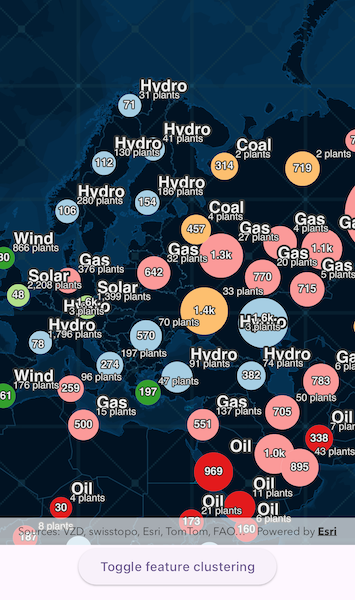
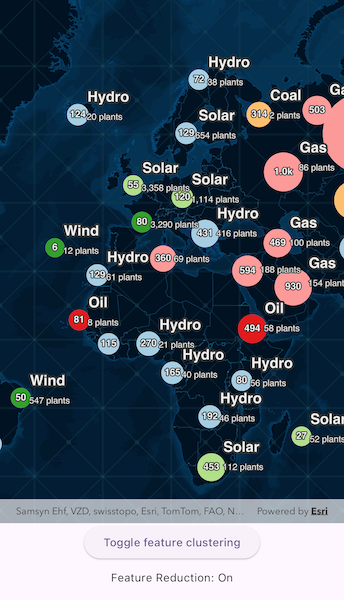
Update: adds AggregateGeoElement to Display Clusters sample (#156)
* Add aggregate geoelement functionality to sample

* Update readme and metadata

* Update generated_samples_list.json

* Display the current clustering status

* Correct bool after testing

* Update display_clusters.png

* remove redundant check

* remove scrollable

* Update README.md

diff --git a/lib/samples/display_clusters/display_clusters.dart b/lib/samples/display_clusters/display_clusters.dart
@@ -31,6 +31,9 @@ class _DisplayClustersState extends State<DisplayClusters>
   // Create a map view controller.
   final _mapViewController = ArcGISMapView.createController();
   late ArcGISMap _map;
+  late FeatureLayer _featureLayer;
+  // A flag to track whether feature clustering is enabled to display in the UI.
+  var _featureReductionEnabled = false;
   // A flag for when the map view is ready and controls can be used.
   var _ready = false;
 
@@ -48,14 +51,27 @@ class _DisplayClustersState extends State<DisplayClusters>
                   child: ArcGISMapView(
                     controllerProvider: () => _mapViewController,
                     onMapViewReady: onMapViewReady,
+                    onTap: onTap,
                   ),
                 ),
-                Center(
-                  // Create a button to toggle feature clustering.
-                  child: ElevatedButton(
-                    onPressed: toggleFeatureClustering,
-                    child: const Text('Toggle feature clustering'),
-                  ),
+                Column(
+                  mainAxisAlignment: MainAxisAlignment.center,
+                  children: [
+                    // Add a button to toggle feature clustering.
+                    ElevatedButton(
+                      onPressed: toggleFeatureClustering,
+                      child: const Text('Toggle feature clustering'),
+                    ),
+                    const SizedBox(
+                      height: 10,
+                    ),
+                    // Display the current feature reduction state.
+                    Text(
+                      _featureReductionEnabled
+                          ? 'Feature Reduction: On'
+                          : 'Feature Reduction: Off',
+                    ),
+                  ],
                 ),
               ],
             ),
@@ -90,22 +106,111 @@ class _DisplayClustersState extends State<DisplayClusters>
     _mapViewController.arcGISMap = _map;
     // Load the map.
     await _map.load();
-    // Set the ready state variable to true to enable the sample UI.
-    setState(() => _ready = true);
+    // Get the power plant feature layer once the map has finished loading.
+    if (_map.operationalLayers.isNotEmpty &&
+        _map.operationalLayers.first is FeatureLayer) {
+      // Get the first layer from the web map a feature layer.
+      _featureLayer = _map.operationalLayers.first as FeatureLayer;
+      if (_featureLayer.featureReduction != null) {
+        // Set the ready state variable to true to enable the sample UI.
+        // Set the feature reduction flag to the current state of the feature
+        setState(() {
+          _ready = true;
+          _featureReductionEnabled = _featureLayer.featureReduction!.enabled;
+        });
+      } else {
+        showWarningDialog(
+          'Feature layer does not have feature reduction enabled.',
+        );
+      }
+    } else {
+      showWarningDialog('Unable to access a feature layer on the web map.');
+    }
+  }
+
+  void onTap(Offset localPosition) async {
+    // Clear any existing selected features.
+    _featureLayer.clearSelection();
+    // Perform an identify result on the map view controller, using the feature layer and tapped location.
+    final identifyLayerResult = await _mapViewController.identifyLayer(
+      _featureLayer,
+      screenPoint: localPosition,
+      tolerance: 12.0,
+    );
+    // Get the aggregate geoelements from the identify result.
+    final aggregateGeoElements =
+        identifyLayerResult.geoElements.whereType<AggregateGeoElement>();
+    if (aggregateGeoElements.isEmpty) return;
+    // Select the first aggregate geoelement.
+    final aggregateGeoElement = aggregateGeoElements.first;
+    aggregateGeoElement.isSelected = true;
+
+    // Get the list of geoelements associated with the aggregate geoelement.
+    final geoElements = await aggregateGeoElement.getGeoElements();
+    // Display a dialog with information about the geoelements.
+    showResultsDialog(geoElements);
+  }
+
+  void showResultsDialog(List<GeoElement> geoElements) {
+    // Create a dialog that lists the count and names of the provided list of geoelements.
+    showDialog(
+      context: context,
+      builder: (context) {
+        return AlertDialog(
+          title: const Text('Contained GeoElements'),
+          content: Column(
+            mainAxisSize: MainAxisSize.min,
+            crossAxisAlignment: CrossAxisAlignment.start,
+            children: [
+              Text(
+                'Total GeoElements: ${geoElements.length}',
+                style: Theme.of(context).textTheme.titleMedium,
+              ),
+              const SizedBox(height: 10),
+              SizedBox(
+                height: 200,
+                child: SingleChildScrollView(
+                  child: Column(
+                    crossAxisAlignment: CrossAxisAlignment.start,
+                    children: geoElements
+                        .map(
+                          (geoElement) => Text(
+                            geoElement.attributes['name'] ??
+                                'Geoelement: ${geoElements.indexOf(geoElement)}}',
+                          ),
+                        )
+                        .toList(),
+                  ),
+                ),
+              ),
+            ],
+          ),
+        );
+      },
+    );
   }
 
   void toggleFeatureClustering() {
-    // Check if the map has operational layers and the first layer is a feature layer.
-    if (_map.operationalLayers.isNotEmpty &&
-        _map.operationalLayers.first is FeatureLayer) {
-      // Get the first layer as a feature layer.
-      final featureLayer = _map.operationalLayers.first as FeatureLayer;
-      // Check if the feature layer has feature reduction.
-      if (featureLayer.featureReduction != null) {
-        // Toggle the feature reduction.
-        featureLayer.featureReduction!.enabled =
-            !featureLayer.featureReduction!.enabled;
-      }
+    if (_featureLayer.featureReduction != null) {
+      // Toggle the feature reduction.
+      final featureReduction = _featureLayer.featureReduction!;
+      featureReduction.enabled = !featureReduction.enabled;
+      setState(() => _featureReductionEnabled = featureReduction.enabled);
     }
+  }
+
+  void showWarningDialog(String message) {
+    // Show a dialog with the provided message.
+    showDialog(
+      context: context,
+      builder: (context) {
+        return AlertDialog(
+          title: const Text('Warning'),
+          content: Text(
+            '$message Could not load sample.',
+          ),
+        );
+      },
+    );
   }
 }

diff --git a/lib/samples/display_clusters/README.md b/lib/samples/display_clusters/README.md
@@ -10,18 +10,24 @@ Feature clustering can be used to dynamically aggregate groups of points that ar
 
 ## How to use the sample
 
-Pan and zoom the map to view how clustering is dynamically updated. Toggle clustering off to view the original point features that make up the clustered elements.
+Pan and zoom the map to view how clustering is dynamically updated. Toggle clustering off to view the original point features that make up the clustered elements. When clustering is "On", you can tap on a clustered geoelement to view a list of contained geoelements.
 
 ## How it works
 
 1. Create a map from a web map `PortalItem`.
 2. Get the cluster enabled layer from the map's operational layers.
 3. Get the `FeatureReduction` from the feature layer and set the `enabled` bool to enable or disable clustering on the feature layer.
+4. When the user taps on the map view, call `identifyLayer()`, passing in the layer, map tap location and tolerance.
+5. Select the `AggregateGeoElement` from the resulting `IdentifyLayerResult` and call `getGeoElements()` to retrieve the containing `GeoElement` objects.
+6. Display the list of contained `GeoElement` objects in a dialog.
 
 ## Relevant API
 
+* AggregateGeoElement
 * FeatureLayer
 * FeatureReduction
+* GeoElement
+* IdentifyLayerResult
 
 ## About the data
 
